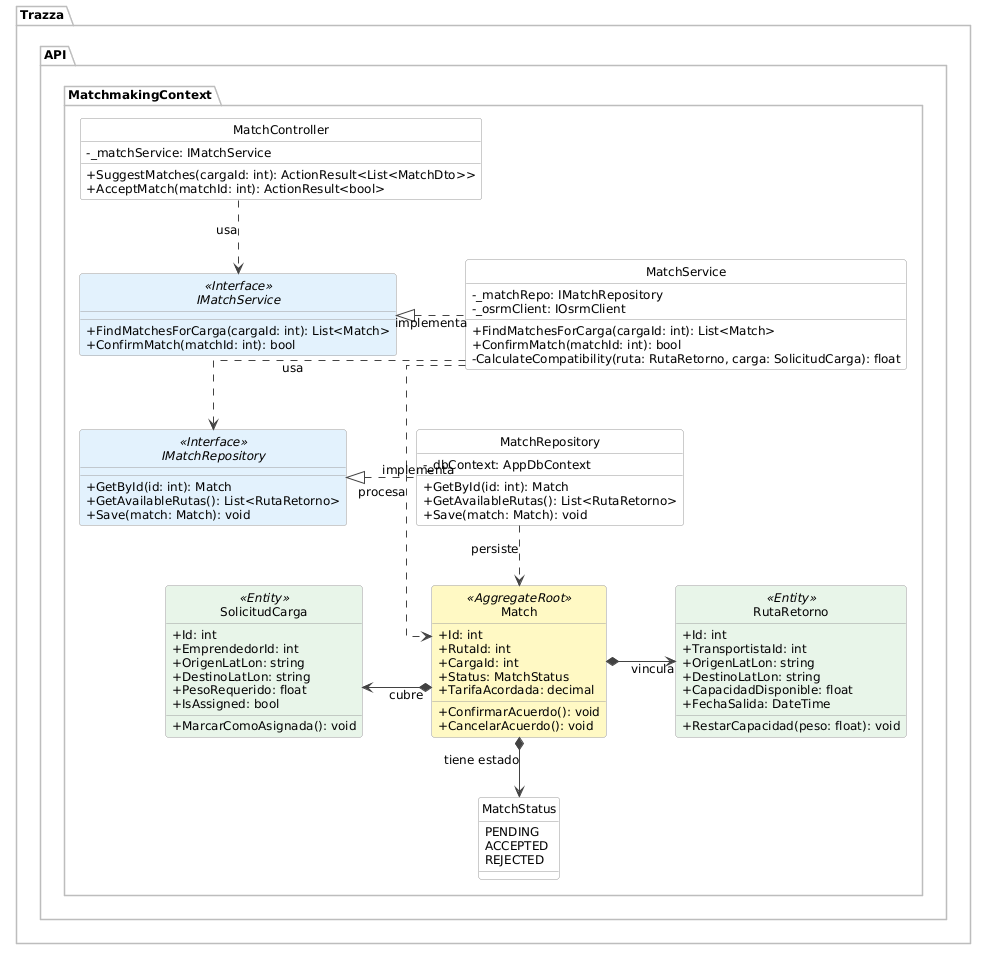
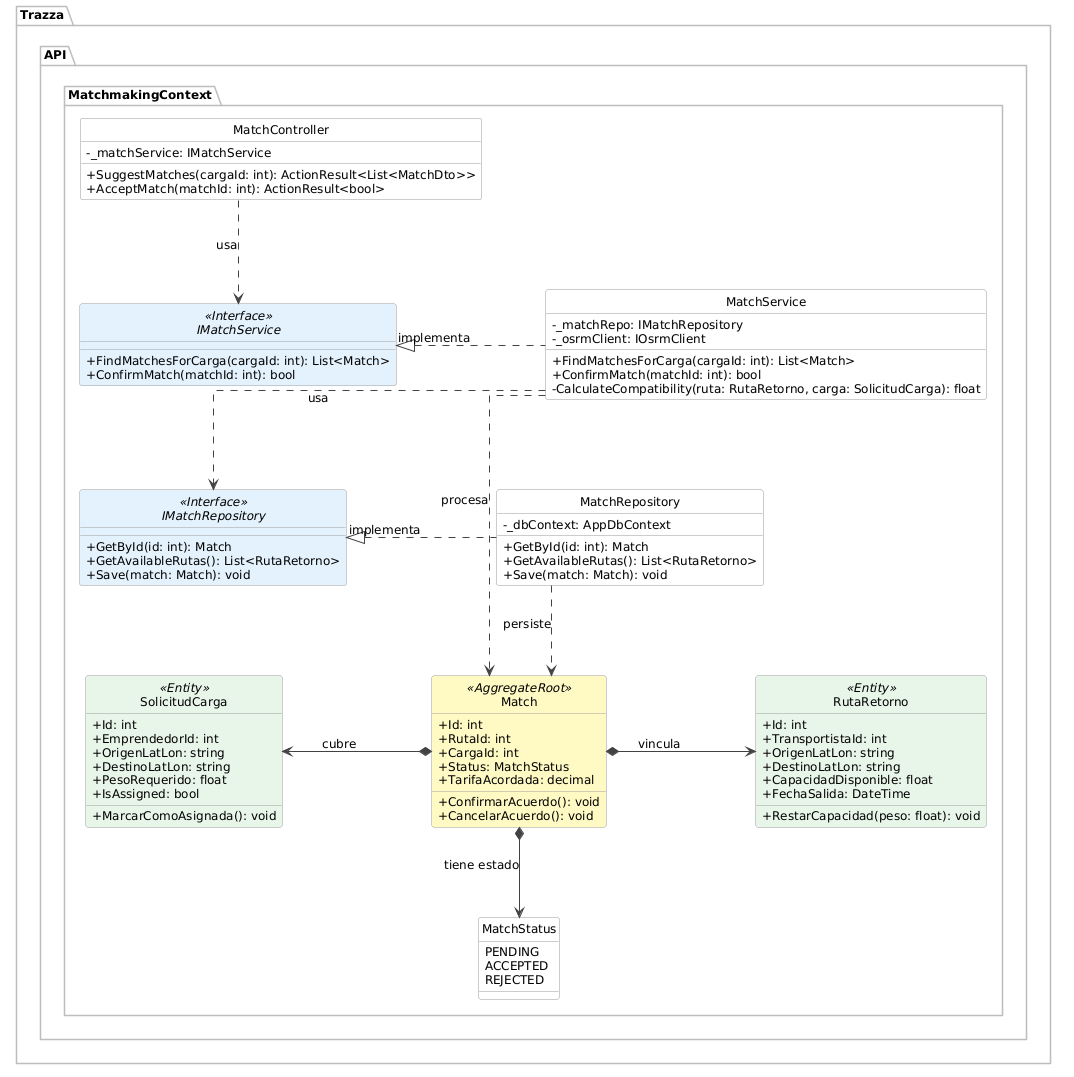
doc(class-diagram): increase horizontal and vertical spacing to prevent label overlapping

Changed region(s): [[0.0, 0.0, 0.9668, 0.9697], [0.9356, 0.0606, 0.9668, 0.0909]]

diff --git a/report/47-software-object-oriented-design.md b/report/47-software-object-oriented-design.md
@@ -1,0 +1,21 @@
+# 4.7. Software Object-Oriented Design
+
+En esta sección, el equipo presenta los diagramas que detallan la implementación orientada a objetos de los componentes definidos en la arquitectura. La estructura refleja el uso del patrón arquitectónico de capas acoplado a Domain-Driven Design (DDD) bajo el framework ASP.NET Core (C#). 
+
+Las principales características evidenciadas en estos diagramas son:
+* **Uso de Inyección de Dependencias:** Acoplamiento débil a través de interfaces (`IService`, `IRepository`).
+* **Separación de Responsabilidades:** Controladores para la capa de presentación (REST), Servicios para la lógica de negocio, y Repositorios para el acceso a datos mediante Entity Framework Core.
+* **Agregados y Entidades de Dominio:** Clases ricas que encapsulan atributos y comportamientos clave del negocio.
+
+## 4.7.1. Class Diagrams
+
+A continuación se presenta el diagrama de clases correspondiente al Bounded Context Core de la plataforma: **Matchmaking & Routing**. Este diagrama ilustra cómo se estructura el emparejamiento entre la oferta (espacio en camiones) y la demanda (solicitudes de flete).
+
+![Diagrama de Clases - Matchmaking](../assets/images/chapter4/software-object-oriented-design/class-diagram-matchmaking.png)
+
+A continuación se detalla la estructura y flujo del diagrama:
+
+* **Controladores (`MatchController`):** Representa la puerta de entrada de las peticiones HTTP (REST). No accede directamente a la base de datos, sino que delega el trabajo a través de la interfaz `IMatchService`, logrando un bajo acoplamiento en el sistema.
+* **Lógica de negocio y servicios (`MatchService`):** Es el componente encargado de las operaciones del dominio. Implementa la lógica para emparejar cargas con rutas disponibles, evaluar la compatibilidad de trayectos y validar la confirmación de acuerdos.
+* **Acceso a datos y repositorios (`MatchRepository`):** Es la capa responsable de comunicarse con la base de datos mediante Entity Framework Core (`AppDbContext`), permitiendo consultar y persistir el estado de los viajes y acuerdos.
+* **Entidades y Agregados de Dominio (`Match`, `RutaRetorno`, `SolicitudCarga`):** Modelan los elementos centrales del negocio. Cuentan con lógica y comportamiento propio (como `ConfirmarAcuerdo()` o `RestarCapacidad()`), protegiendo sus datos y asegurando que las reglas del negocio se cumplan siempre.
